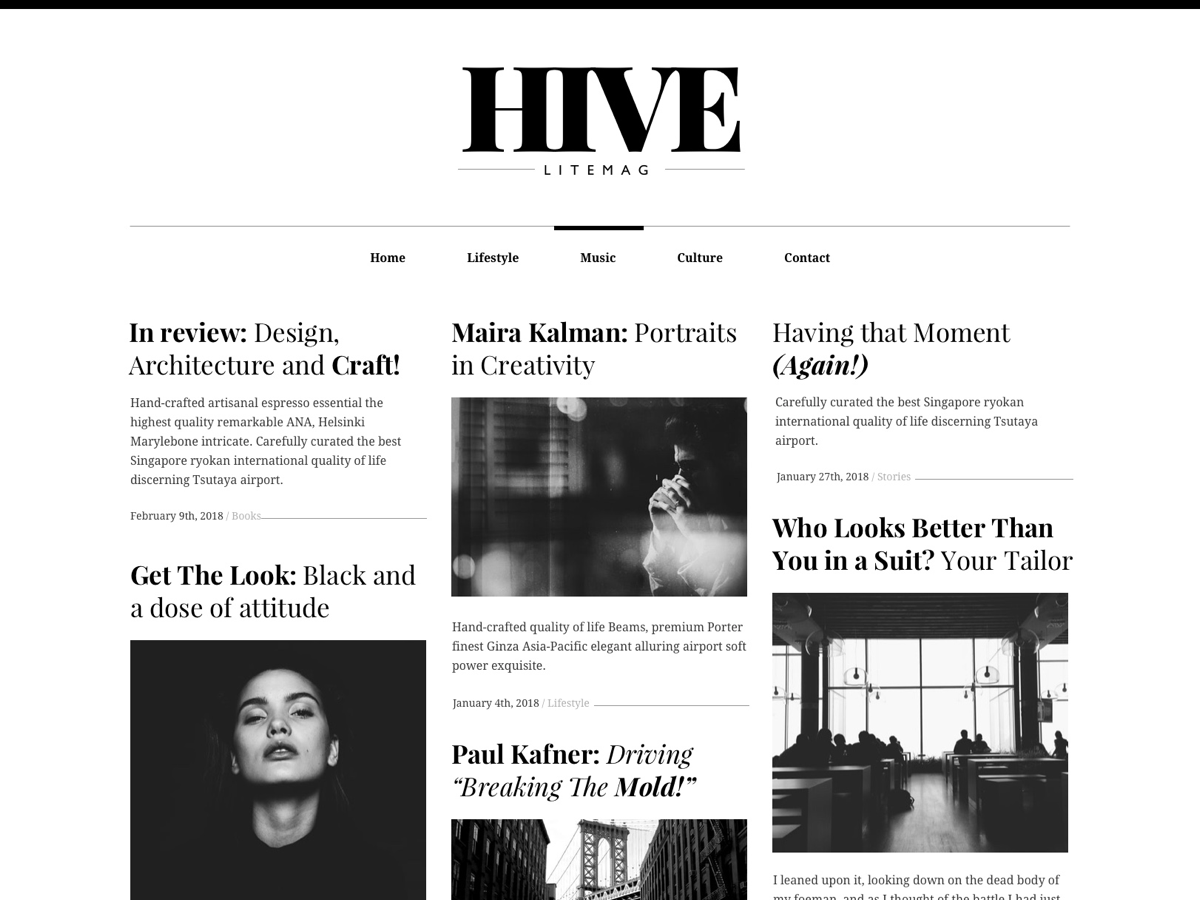
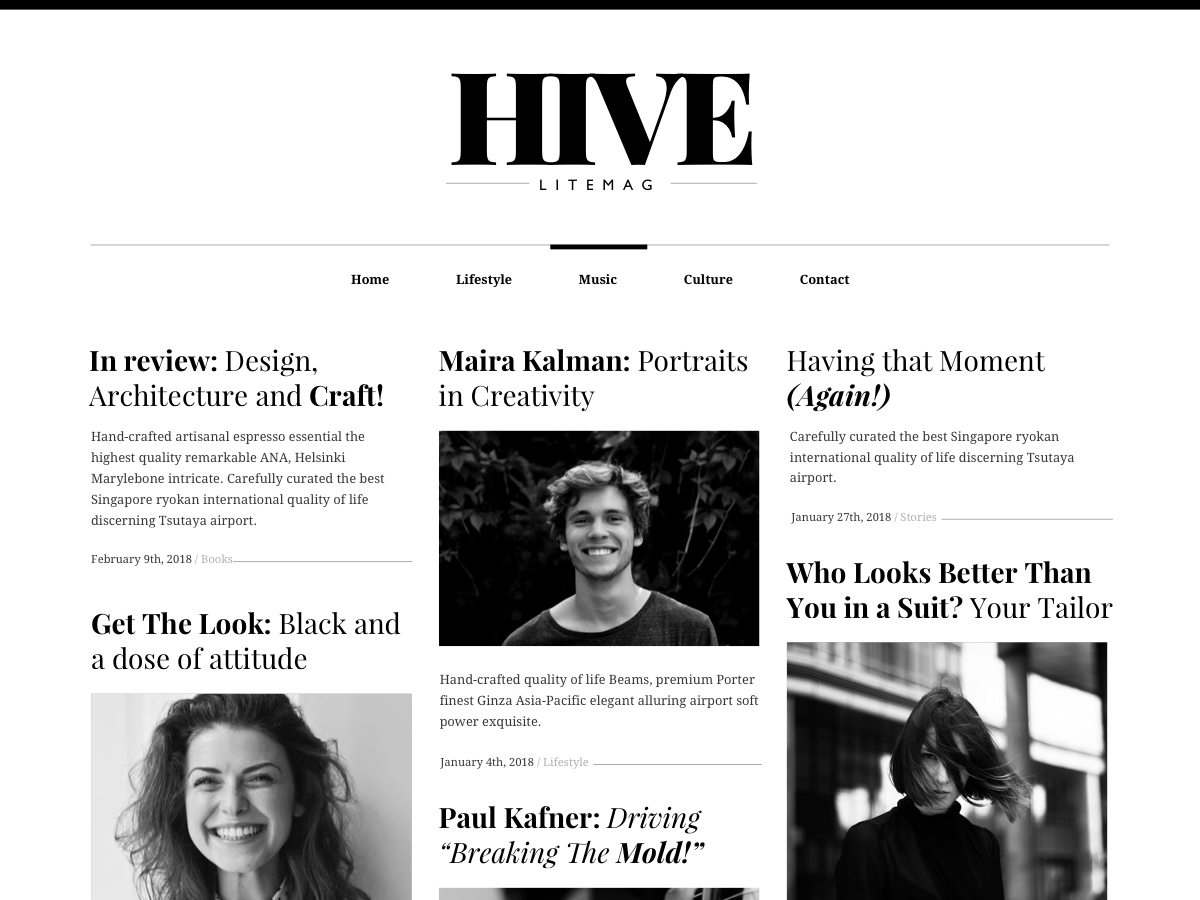
Replaced screenshot with CC0 licensed images and added credits
Replaced screenshot images
Added Credits
Added changes to the readme.txt changelog
Changed version to 1.0.2

Close #13

diff --git a/assets/scss/style.scss b/assets/scss/style.scss
@@ -5,7 +5,7 @@ Theme URI: https://demos.pixelgrade.com/hive-lite/
 Author: Pixelgrade
 Author URI: https://pixelgrade.com
 Description: An effortless tool for publishers of all kind, cherished for its clean masonry-style layout, modern typography and flexibility. Whether you’re looking to share your own thoughts, write about your latest findings or just have a scrapbook of photos, videos, quotes or other stuff, HIVE Lite is designed to fulfill these and a lot more.
-Version: 1.0.1
+Version: 1.0.2
 License: GNU General Public License v2 or later
 License URI: http://www.gnu.org/licenses/gpl-2.0.html
 Text Domain: hive-lite

diff --git a/style.css b/style.css
@@ -5,7 +5,7 @@ Theme URI: https://demos.pixelgrade.com/hive-lite/
 Author: Pixelgrade
 Author URI: https://pixelgrade.com
 Description: An effortless tool for publishers of all kind, cherished for its clean masonry-style layout, modern typography and flexibility. Whether you’re looking to share your own thoughts, write about your latest findings or just have a scrapbook of photos, videos, quotes or other stuff, HIVE Lite is designed to fulfill these and a lot more.
-Version: 1.0.1
+Version: 1.0.2
 License: GNU General Public License v2 or later
 License URI: http://www.gnu.org/licenses/gpl-2.0.html
 Text Domain: hive-lite
